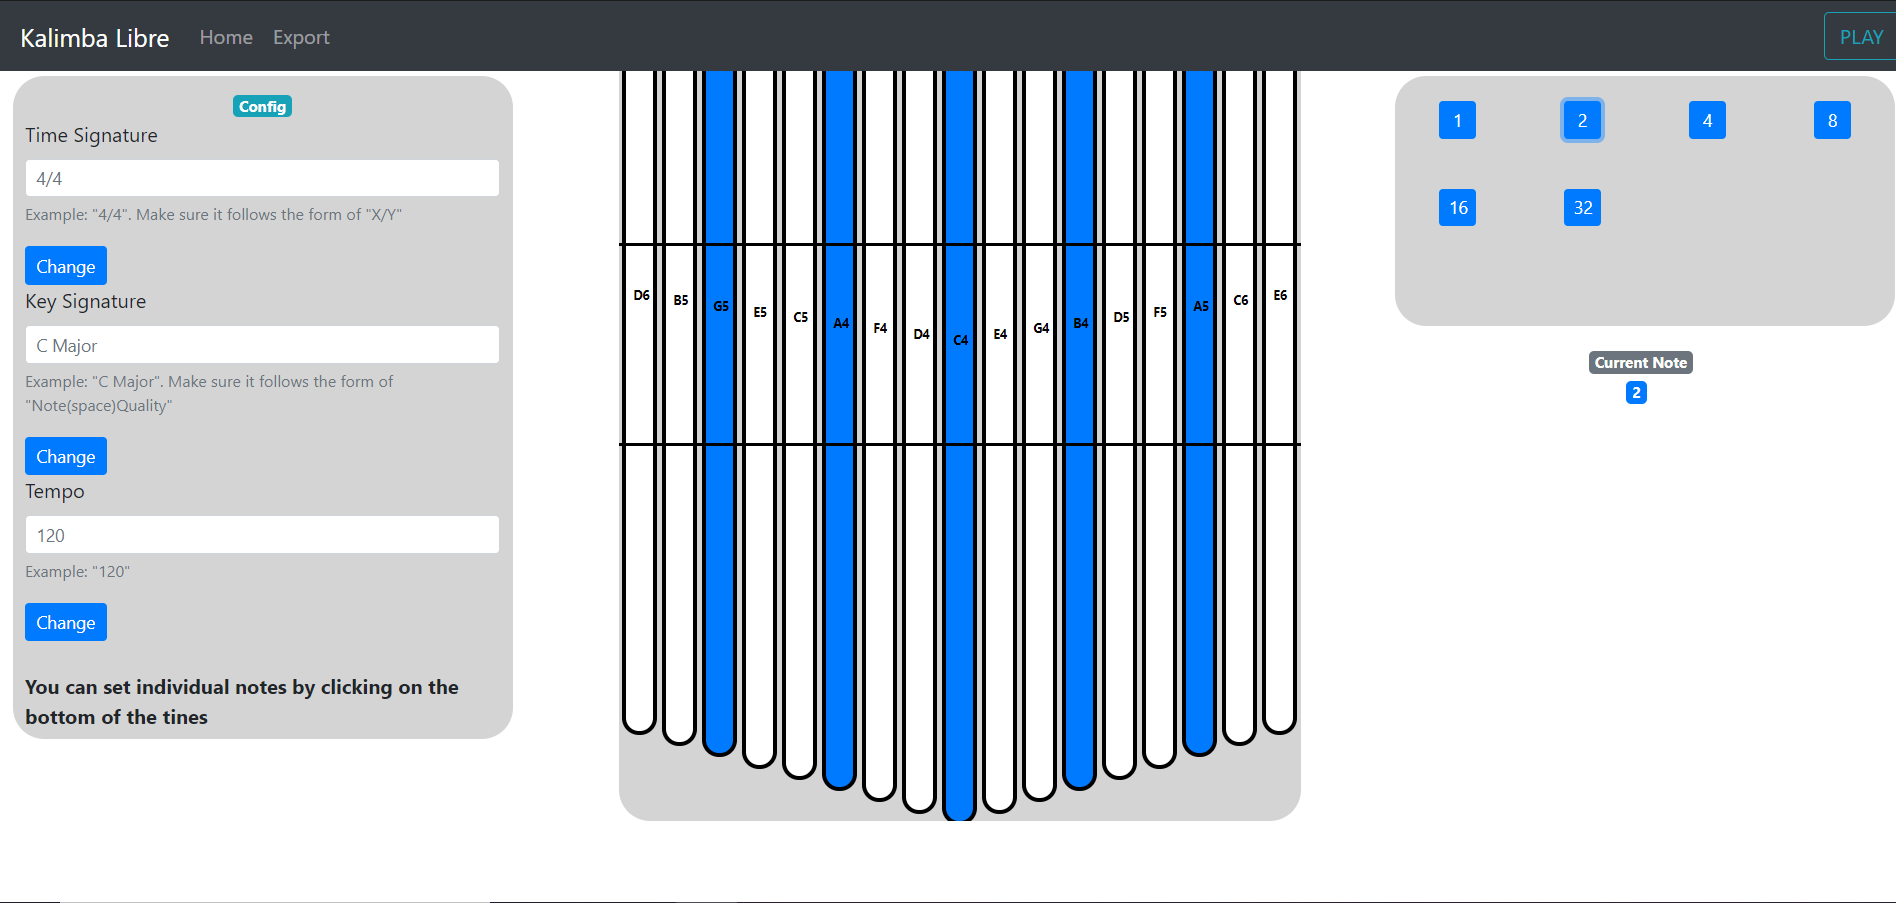
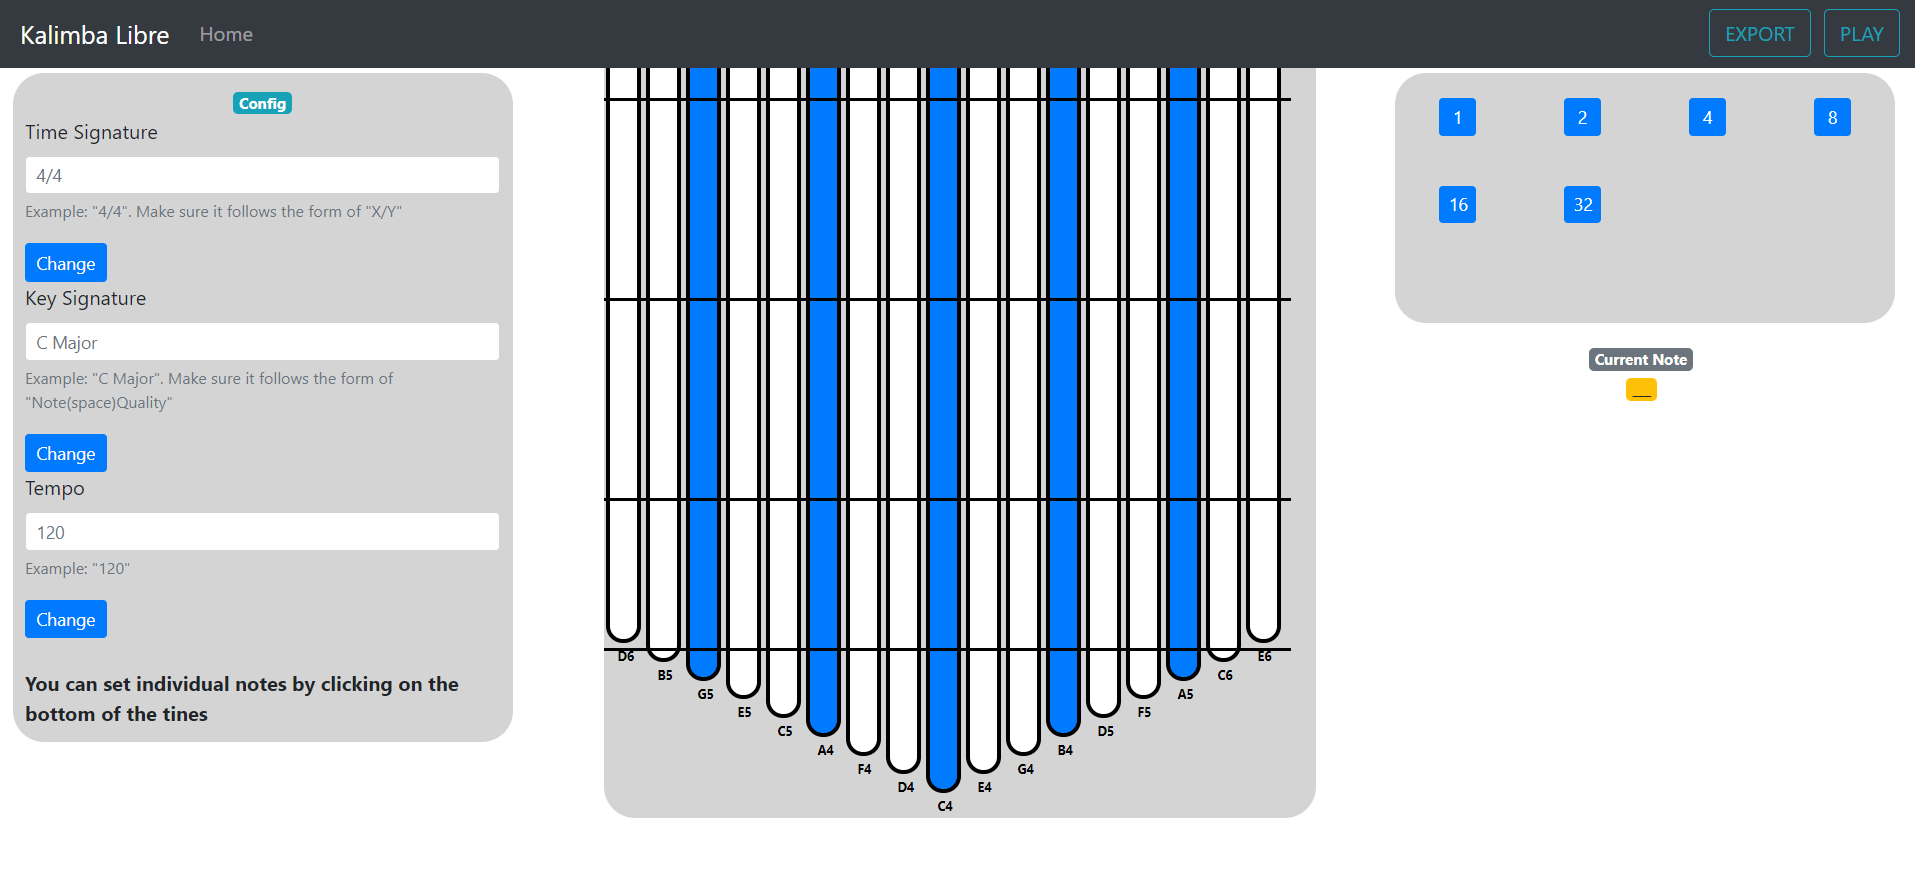
updated readme and preview picture

diff --git a/README.md b/README.md
@@ -26,6 +26,7 @@ Here's how the app looks at this stage in development:
 - [x] Align noteHolder so that it starts from the bottom of the holder div
 - [ ] Make function to highlight totalNotes going up the holder
 - [x] Actually nail down a midi player to use going forward
-      ~~Start skeleton of the config page to place variables (like note names, tempo, etc) in their repsective places~~ no longer using config page
+- [x] Find way to export the kalimba holder _though it's not entirely working yet_
+- ~~Start skeleton of the config page to place variables (like note names, tempo, etc) in their repsective places~~ no longer using config page
 - [ ] Refactor components for better reusability
 - [ ] Everything else! :^)
